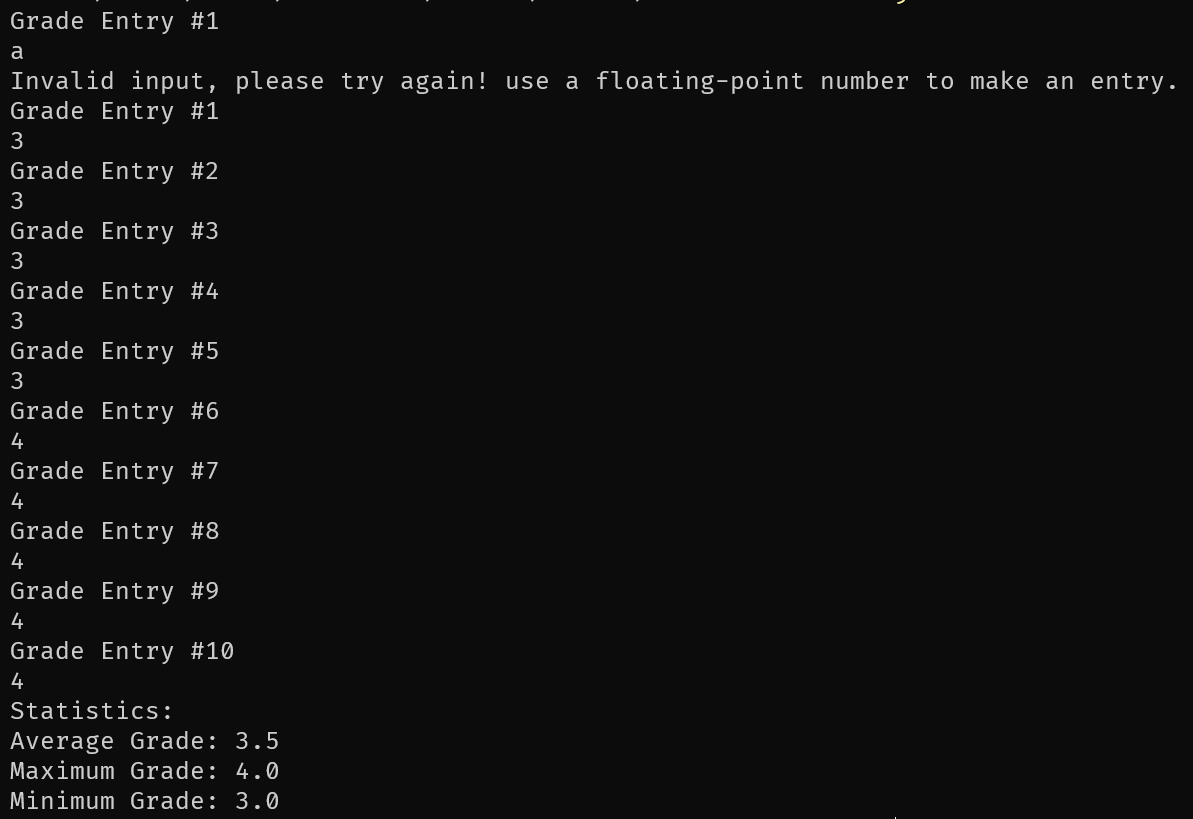
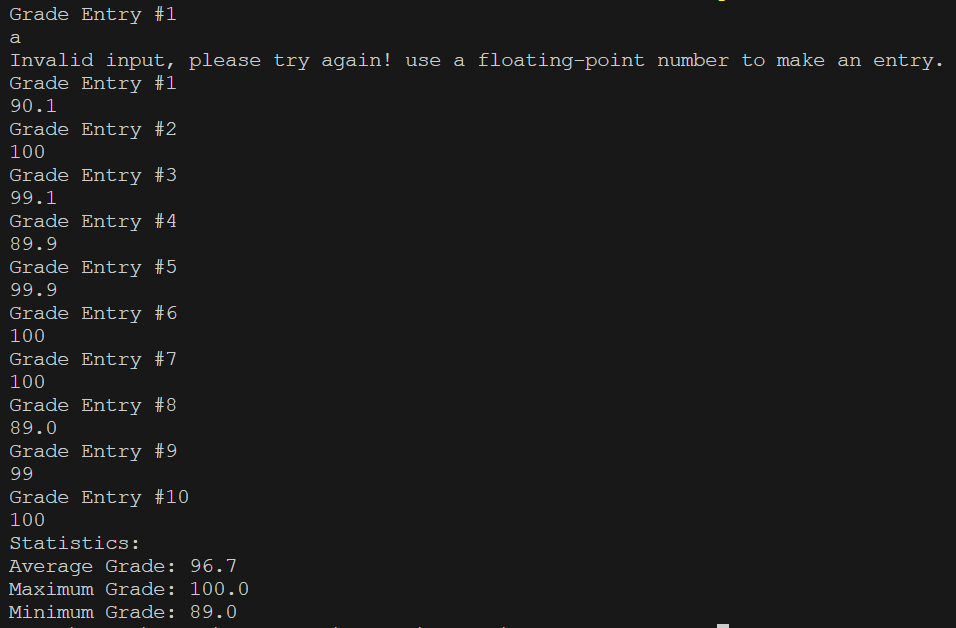
update example + use try-with-resource

diff --git a/GradeCalculator/GradeCalculator.java b/GradeCalculator/GradeCalculator.java
@@ -4,34 +4,34 @@ public class GradeCalculator {
 
     public static void main(String[] args) {
         final int GRADE_ENTRIES = 10;
-        Scanner scanner = new Scanner(System.in);
         double currentGrade = 0;
         double totalGrade = 0;
         double avgGrade = 0;
         double maxGrade = Double.MIN_VALUE;
         double minGrade = Double.MAX_VALUE;
 
-        for (int i = 0; i < GRADE_ENTRIES; i++) {
-            System.out.println("Grade Entry #" + (i + 1));
-            while (!scanner.hasNextDouble()) {
-                System.out.println("Invalid input, please try again! use a floating-point number to make an entry.");
+        try (Scanner scanner = new Scanner(System.in)) {
+            for (int i = 0; i < GRADE_ENTRIES; i++) {
                 System.out.println("Grade Entry #" + (i + 1));
-                scanner.next();
-            }
+                while (!scanner.hasNextDouble()) {
+                    System.out
+                            .println("Invalid input, please try again! use a floating-point number to make an entry.");
+                    System.out.println("Grade Entry #" + (i + 1));
+                    scanner.next();
+                }
 
-            currentGrade = scanner.nextDouble();
-            totalGrade += currentGrade;
+                currentGrade = scanner.nextDouble();
+                totalGrade += currentGrade;
 
-            if (currentGrade > maxGrade) {
-                maxGrade = currentGrade;
-            }
+                if (currentGrade > maxGrade) {
+                    maxGrade = currentGrade;
+                }
 
-            if (currentGrade < minGrade) {
-                minGrade = currentGrade;
+                if (currentGrade < minGrade) {
+                    minGrade = currentGrade;
+                }
             }
         }
-
-        scanner.close();
 
         avgGrade = totalGrade / GRADE_ENTRIES;
         System.out.println("Statistics:");
